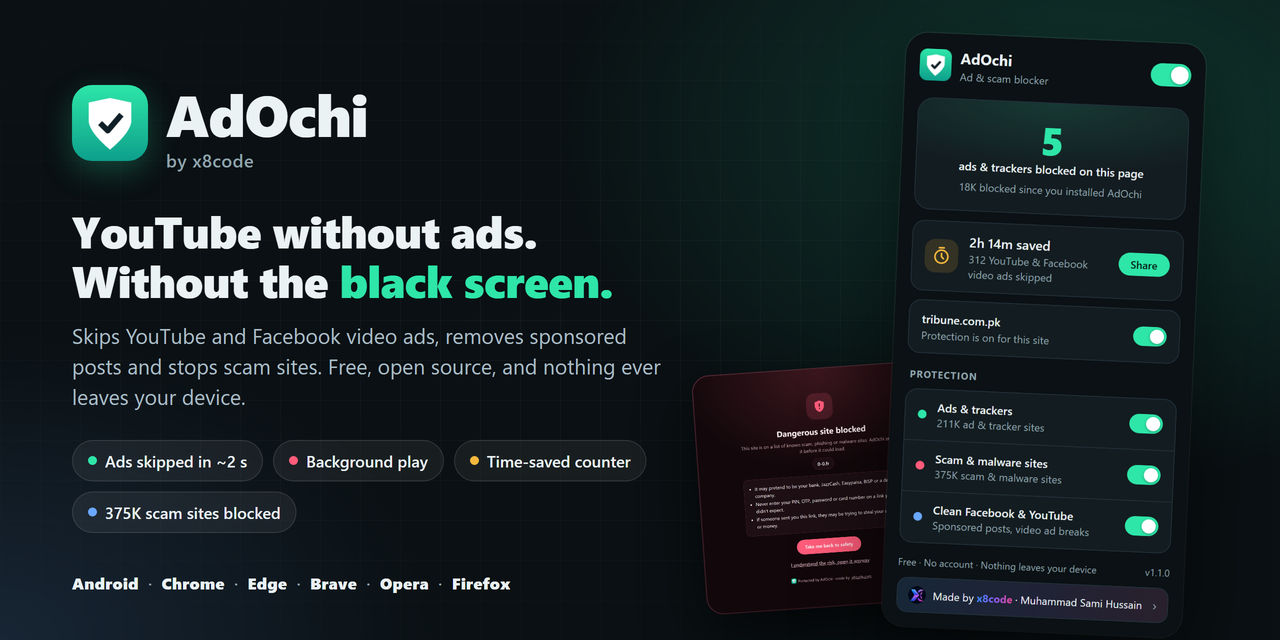
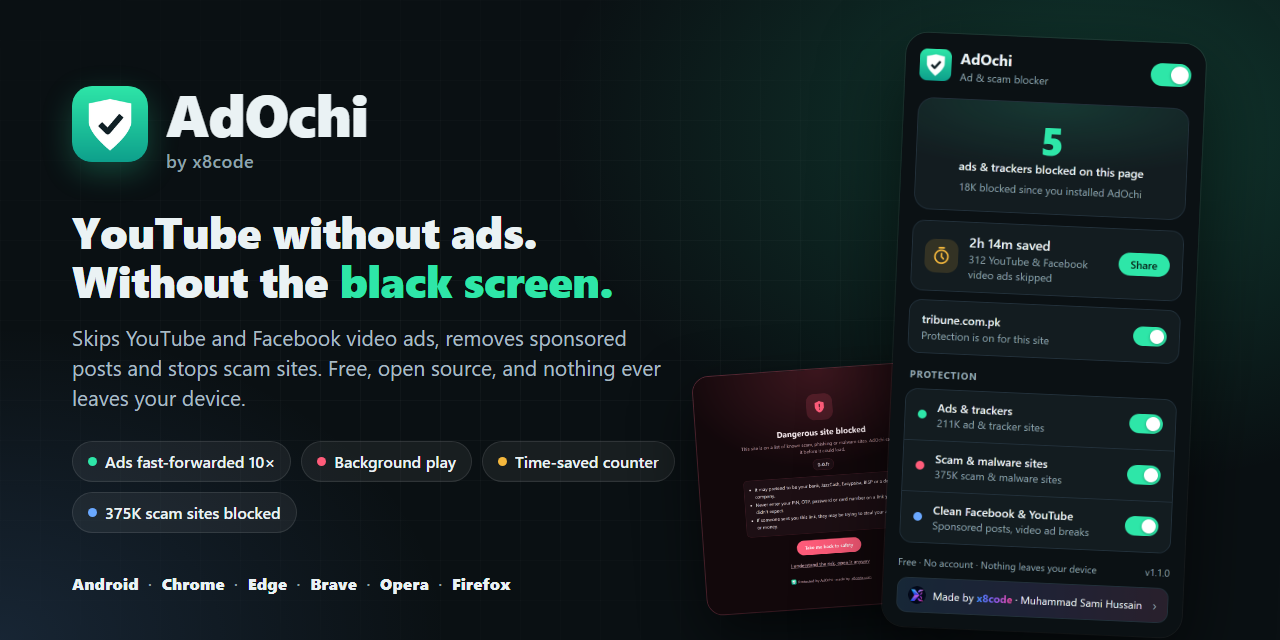
AdOchi 1.2: YouTube plays again for signed-in viewers
- On YouTube no requests are blocked (allowAllRequests in YouTube frames) and the
  generic ad CSS is not applied.
- Ads run muted, hidden and 10x fast. No seeking to the end and no scripted Skip
  clicks, which YouTube treats as ad-blocker signals.
- YouTube safe mode: if YouTube still shows "Video playback is blocked", AdOchi
  stays out of YouTube for 6 hours and reloads the video. The popup shows it,
  with a "Skip again" button.
- Version 1.2.0 (app versionCode 3); README, landing page and banner updated.

diff --git a/app/src/main/assets/cleaner.js b/app/src/main/assets/cleaner.js
@@ -411,7 +411,7 @@
       'ytd-companion-slot-renderer', 'ytd-action-companion-ad-renderer', 'ytd-mealbar-promo-renderer',
       'ytd-player-legacy-desktop-watch-ads-renderer', 'ytd-engagement-panel-section-list-renderer[target-id="engagement-panel-ads"]',
       '#player-ads', '#masthead-ad', '.ytp-ad-overlay-container', '.ytp-ad-image-overlay', '.ytp-ad-text-overlay',
-      '.ytp-featured-product', '.ytp-suggested-action', 'ytd-enforcement-message-view-model'
+      '.ytp-featured-product', '.ytp-suggested-action', 'tp-yt-paper-dialog ytd-enforcement-message-view-model'
     ]));
     // :has() in its own rule so older WebViews only drop this one.
     addStyle(hideRule([
@@ -423,14 +423,14 @@
     addStyle('.ad-showing video, .ad-interrupting video, .ad-showing .video-ads, .ad-showing .ytp-ad-player-overlay,' +
       ' .ad-showing .ytp-ad-player-overlay-layout { opacity: 0 !important; }\n');
 
-    var SKIP = '.ytp-ad-skip-button, .ytp-ad-skip-button-modern, .ytp-skip-ad-button, .ytp-ad-skip-button-container button, ' +
-      'button[id^="skip-button"], .ytp-ad-skip-button-slot button, ytm-skip-ad-button button';
+    // Ads are muted, hidden and fast-forwarded, nothing more. YouTube ignores scripted clicks on Skip,
+    // and jumping to the end of an ad or playing it at 16x is what gets an account flagged.
+    var AD_RATE = 10;
 
     var inAd = false;
     var counted = '';
     var saved = { muted: false, rate: 1 };
-    var contentDuration = 0;
-    var contentSrc = '';
+    var blockedSent = false;
 
     function playerNode() {
       return document.querySelector('#movie_player, .html5-video-player');
@@ -460,59 +460,61 @@
         if (inAd) {
           inAd = false;
           video.muted = saved.muted;
-          video.playbackRate = saved.rate;
-          if (video.paused) video.play().catch(function () {});
-        }
-        if (isFinite(video.duration) && video.duration > 0) {
-          contentDuration = video.duration;
-          contentSrc = video.currentSrc || video.src || '';
+          // Only undo our own speed, so a speed YouTube or the viewer set afterwards stays.
+          if (video.playbackRate === AD_RATE) video.playbackRate = saved.rate;
         }
         return;
       }
       if (!inAd) {
         inAd = true;
         counted = '';
-        saved = { muted: video.muted, rate: video.playbackRate > 2 ? 1 : (video.playbackRate || 1) };
+        saved = { muted: video.muted, rate: video.playbackRate === AD_RATE ? 1 : (video.playbackRate || 1) };
       }
-      video.muted = true;
-      try { video.playbackRate = 16; } catch (e) { /* rate not allowed */ }
-      var skip = player.querySelector(SKIP) || document.querySelector(SKIP);
-      if (skip) skip.click();
+      if (!video.muted) video.muted = true;
+      if (video.playbackRate !== AD_RATE) {
+        try { video.playbackRate = AD_RATE; } catch (e) { /* rate not allowed */ }
+      }
       if (!(isFinite(video.duration) && video.duration > 0)) return;
-      // An ad stitched into the video stream has the video's own length: jump only past the ad there.
-      var stitched = contentDuration > 0 && Math.abs(video.duration - contentDuration) < 1 &&
-        (video.currentSrc || video.src || '') === contentSrc;
       // Each ad of a break is counted once, with the time it would have taken.
       var id = (video.currentSrc || video.src || '') + '|' + video.duration;
       if (counted !== id) {
         counted = id;
-        report(stitched ? remainingAdTime(player) : video.duration - video.currentTime);
+        var rest = remainingAdTime(player);
+        // An ad stitched into the stream reports the whole video's length, so the ad's own timer is used.
+        report(rest > 0 ? rest : Math.min(video.duration - video.currentTime, 180));
       }
-      try {
-        if (!stitched) {
-          if (video.currentTime < video.duration - 0.25) video.currentTime = video.duration - 0.1;
-        } else {
-          var rest = remainingAdTime(player);
-          if (rest > 0) video.currentTime = Math.min(video.currentTime + rest + 0.2, video.duration - 0.5);
-        }
-      } catch (e) { /* not seekable yet */ }
-      if (video.paused) video.play().catch(function () {});
     }
 
-    /** "Ad blockers are not allowed" pop-up, if it still appears: close it and keep the video going. */
+    /** "Ad blockers are not allowed" pop-up over a playing video: close it and keep the video going. */
     function closeEnforcement() {
-      var box = document.querySelector('ytd-enforcement-message-view-model');
+      var box = document.querySelector('tp-yt-paper-dialog ytd-enforcement-message-view-model');
       if (!box) return;
-      var dialog = box.closest('tp-yt-paper-dialog') || box;
-      dialog.remove();
+      box.closest('tp-yt-paper-dialog').remove();
       document.querySelectorAll('tp-yt-iron-overlay-backdrop').forEach(function (b) { b.remove(); });
       var video = document.querySelector('#movie_player video, video');
       if (video && video.paused) video.play().catch(function () {});
       report();
     }
 
+    var BLOCKED_TEXT = /ad ?blockers? (violate|are not allowed)|allowlisted|video playback is blocked/i;
+
+    /**
+     * YouTube refused to play the video at all. Nothing on the page can undo that, so AdOchi tells the
+     * extension, which steps back from YouTube for a while and reloads the video.
+     */
+    function checkBlocked() {
+      if (blockedSent) return;
+      var err = document.querySelector('#movie_player .ytp-error, #error-screen, yt-playability-error-supported-renderers');
+      if (!err || !BLOCKED_TEXT.test(err.textContent || '')) return;
+      blockedSent = true;
+      try {
+        if (window.AdOchiBridge && typeof window.AdOchiBridge.onYouTubeBlocked === 'function') window.AdOchiBridge.onYouTubeBlocked();
+      } catch (e) { /* app without this hook */ }
+      document.dispatchEvent(new CustomEvent('adochi:ytblocked'));
+    }
+
     // React the moment the player switches into an ad, and keep checking in case an event is missed.
-    ['loadedmetadata', 'durationchange', 'playing', 'timeupdate'].forEach(function (name) {
+    ['loadedmetadata', 'durationchange', 'playing'].forEach(function (name) {
       document.addEventListener(name, function (e) { if (e.target && e.target.tagName === 'VIDEO') tick(); }, true);
     });
     var classWatch = new MutationObserver(tick);
@@ -525,6 +527,7 @@
         classWatch.observe(player, { attributes: true, attributeFilter: ['class'] });
       }
       tick();
+      checkBlocked();
       closeEnforcement();
     }, 250);
   }

diff --git a/extension/src/background.js b/extension/src/background.js
@@ -17,7 +17,13 @@ const DEFAULTS = {
   total: 0, // everything blocked since install
   savedSeconds: 0, // video ad time skipped since install
   videoAds: 0, // video ads skipped since install
+  ytSafeUntil: 0, // YouTube refused to play with AdOchi active: until then AdOchi stays out of YouTube
 };
+
+// YouTube runs its own ad-blocker checks, so there AdOchi blocks no requests and adds no styles;
+// only the page cleaner works there, and it steps back for a while if YouTube still refuses to play.
+const YOUTUBE_PAGES = ['*://*.youtube.com/*', '*://youtube.com/*', '*://*.youtube-nocookie.com/*'];
+const YT_SAFE_HOURS = 6;
 
 const ALL_TYPES = [
   'main_frame', 'sub_frame', 'stylesheet', 'script', 'image', 'font', 'object',
@@ -27,6 +33,7 @@ const SITE_PRIORITY = 100;
 const PROCEED_PRIORITY = 200;
 const SCRIPT_CLEANER = 'adochi-cleaner';
 const SCRIPT_BRIDGE = 'adochi-bridge';
+const SCRIPT_GENERIC_CSS = 'adochi-generic-css';
 
 async function settings() {
   return api.storage.local.get(DEFAULTS);
@@ -83,20 +90,29 @@ async function registerScripts(s) {
     scripts.push({
       id: SCRIPT_BRIDGE,
       js: ['content/bridge.js'],
-      css: ['content/generic.css'],
       matches,
       excludeMatches,
       runAt: 'document_start',
       allFrames: true,
       persistAcrossSessions: true,
     });
+    scripts.push({
+      id: SCRIPT_GENERIC_CSS,
+      css: ['content/generic.css'],
+      matches,
+      excludeMatches: [...excludeMatches, ...YOUTUBE_PAGES],
+      runAt: 'document_start',
+      allFrames: true,
+      persistAcrossSessions: true,
+    });
   }
   if (s.ads && s.social) {
+    const ytSafe = s.ytSafeUntil > Date.now();
     scripts.push({
       id: SCRIPT_CLEANER,
       js: ['content/cleaner.js'],
       matches,
-      excludeMatches,
+      excludeMatches: ytSafe ? [...excludeMatches, ...YOUTUBE_PAGES] : excludeMatches,
       runAt: 'document_start',
       // Must share the page's JavaScript to strip ad data before the video player reads it.
       world: 'MAIN',
@@ -142,6 +158,7 @@ async function closePage(tabId) {
 
 api.webNavigation.onCommitted.addListener(async (details) => {
   if (details.frameId !== 0) return;
+  await endYouTubeSafeModeIfDue();
   const info = await closePage(details.tabId);
   const safe = /^https?:/.test(details.url) ? details.url : info.lastSafe;
   await saveTabInfo(details.tabId, { since: Date.now(), hidden: 0, lastSafe: safe });
@@ -188,6 +205,25 @@ async function goBack(tabId) {
   else await api.tabs.remove(tabId);
 }
 
+// ---- YouTube safe mode ----------------------------------------------------------------------
+
+/** YouTube would not play with AdOchi active: stay out of YouTube for a while and reload the video. */
+async function youTubeBlocked(tabId) {
+  const s = await settings();
+  if (s.ytSafeUntil > Date.now()) return;
+  await api.storage.local.set({ ytSafeUntil: Date.now() + YT_SAFE_HOURS * 3600 * 1000 });
+  await apply();
+  if (tabId != null) await api.tabs.reload(tabId);
+}
+
+async function endYouTubeSafeModeIfDue() {
+  const { ytSafeUntil } = await settings();
+  if (ytSafeUntil && ytSafeUntil <= Date.now()) {
+    await api.storage.local.set({ ytSafeUntil: 0 });
+    await apply();
+  }
+}
+
 // ---- Popup -------------------------------------------------------------------------------------
 
 /** The site key used for pausing: the host without "www.", so it covers the whole site. */
@@ -220,6 +256,7 @@ async function popupState(tabId, url) {
     total: s.total + page,
     savedSeconds: s.savedSeconds,
     videoAds: s.videoAds,
+    ytSafeUntil: s.ytSafeUntil > Date.now() ? s.ytSafeUntil : 0,
   };
 }
 
@@ -255,6 +292,14 @@ api.runtime.onMessage.addListener((msg, sender, reply) => {
         }
         return null;
       }
+      case 'ytblocked':
+        if (tabId != null && /^https:\/\/([a-z0-9-]+\.)*youtube(-nocookie)?\.com\//.test(sender.url || '')) await youTubeBlocked(tabId);
+        return null;
+      case 'ytretry':
+        if (!fromPopup) return null;
+        await api.storage.local.set({ ytSafeUntil: 0 });
+        await apply();
+        return popupState(msg.tabId, msg.url);
       case 'state':
         if (!fromPopup) return null;
         return popupState(msg.tabId, msg.url);

diff --git a/extension/src/popup.js b/extension/src/popup.js
@@ -45,6 +45,13 @@ function renderSaved(state) {
   };
 }
 
+function renderYouTubeSafe(state) {
+  $('ytSafe').hidden = !state.ytSafeUntil;
+  if (!state.ytSafeUntil) return;
+  const until = new Date(state.ytSafeUntil).toLocaleTimeString([], { hour: 'numeric', minute: '2-digit' });
+  $('ytSafeSub').textContent = `YouTube refused to play videos while ads were being skipped, so its ads play normally until ${until}. Then AdOchi tries again by itself.`;
+}
+
 function formatCount(n) {
   if (n < 1000) return String(n);
   if (n < 1e6) return (n / 1000).toFixed(n < 1e4 ? 1 : 0).replace(/\.0$/, '') + 'K';
@@ -91,6 +98,7 @@ function render(state) {
   }
   $('total').textContent = state.total > 0 ? `${formatCount(state.total)} blocked since you installed AdOchi` : '';
   renderSaved(state);
+  renderYouTubeSafe(state);
 
   const card = $('siteCard');
   card.classList.toggle('na', !state.site);
@@ -126,6 +134,10 @@ async function main() {
     });
   }
   $('share').addEventListener('click', () => { $('shareMenu').hidden = !$('shareMenu').hidden; });
+  $('ytRetry').addEventListener('click', async () => {
+    render(await send({ type: 'ytretry' }));
+    if (tab.id != null && /youtube\.com/.test(tab.url)) api.tabs.reload(tab.id);
+  });
   $('siteOn').addEventListener('change', async (e) => {
     const state = await send({ type: 'site', site, paused: !e.target.checked });
     render(state);

diff --git a/docs/index.html b/docs/index.html
@@ -120,7 +120,7 @@
 
   <h2>What it does</h2>
   <div class="features">
-    <div><b>▶ YouTube that just plays</b><span>Ads skipped in about 2 seconds, no black screen, no "ad blockers not allowed" pop-up.</span></div>
+    <div><b>▶ YouTube that just plays</b><span>Ads muted, hidden and fast-forwarded 10×. No black screen, no "video playback is blocked".</span></div>
     <div><b>🎧 Background play</b><span>On Android, YouTube keeps playing with the screen off.</span></div>
     <div><b>⏱ Time saved</b><span>See how much ad time you got back, and share it.</span></div>
     <div><b>📰 Clean Facebook</b><span>Sponsored posts removed, "Ad starting in 5" breaks skipped.</span></div>

diff --git a/extension/src/content/bridge.js b/extension/src/content/bridge.js
@@ -19,6 +19,18 @@
     }
   }
 
+  // YouTube refused to play the video; the background decides what to do (once per page).
+  let blockedSent = false;
+  document.addEventListener('adochi:ytblocked', () => {
+    if (blockedSent || window.top !== window) return;
+    blockedSent = true;
+    try {
+      api.runtime.sendMessage({ type: 'ytblocked' });
+    } catch (e) {
+      // Extension was updated or reloaded.
+    }
+  });
+
   document.addEventListener('adochi:hidden', (e) => {
     pending++;
     // Seconds of video ad skipped (a number, so it crosses from the page's world unchanged).

diff --git a/extension/src/popup.html b/extension/src/popup.html
@@ -42,6 +42,14 @@
     <button type="button" id="shareCopy">Copy</button>
   </div>
 
+  <section class="card notice" id="ytSafe" hidden>
+    <div class="text">
+      <div class="title">YouTube safe mode</div>
+      <div class="sub" id="ytSafeSub">YouTube refused to play with ad skipping on, so its ads play normally for now.</div>
+    </div>
+    <button type="button" class="share" id="ytRetry">Skip again</button>
+  </section>
+
   <section class="card site" id="siteCard">
     <div class="text">
       <div class="title" id="site">This page</div>

diff --git a/extension/src/popup.css b/extension/src/popup.css
@@ -242,3 +242,7 @@ footer {
   color: var(--muted);
   font-size: 11px;
 }
+
+/* YouTube safe mode notice */
+.card.notice { border-color: color-mix(in srgb, #f5b83d 55%, transparent); background: color-mix(in srgb, #f5b83d 10%, var(--card, transparent)); }
+.card.notice .title { color: #c98a0b; }

diff --git a/README.md b/README.md
@@ -29,7 +29,9 @@ No account. No servers. Nothing leaves your device.
 
 In 2025–2026 YouTube started punishing ad blockers. When a blocker deletes the ads from the player's data, the video sits on a **black screen with a spinning circle** for as long as the ad would have run, or it never starts at all. That's why many blockers suddenly stopped working.
 
-AdOchi 1.1 doesn't fight YouTube that way. It lets the ad load and then makes it vanish on the spot: muted, invisible, jumped to its end, and the *Skip* button pressed for you. YouTube sees a normal ad, so the video just plays.
+For signed-in viewers YouTube went further: *"Ad blockers violate YouTube's Terms of Service. Video playback is blocked"*. It looks for blocked ad requests, hidden ad boxes, ads jumped to their end and *Skip* buttons pressed by a script.
+
+AdOchi 1.2 gives YouTube none of that. On YouTube it blocks no requests and hides no ad boxes in the player. The ad loads as normal and runs **muted, invisible and 10× fast**, so a 15-second ad is over in 1.5 s. If YouTube still refuses to play, AdOchi notices, steps back from YouTube for 6 hours and reloads the video, so **the video always plays**.
 
 **Measured in Chrome on the same videos (November 2026):**
 
@@ -37,13 +39,15 @@ AdOchi 1.1 doesn't fight YouTube that way. It lets the ad load and then makes it
 |---|---|
 | No blocker | 6 s + 66 s of ads |
 | Blockers that delete YouTube's ad data (AdOchi 1.0 too) | **8–10 s black screen** (signed-in users report it never starting) |
-| **AdOchi 1.1** | **No black screen.** Each ad gone in about 2 s, no ad → video at once |
+| **AdOchi 1.2** | **No black screen.** Ads muted, hidden and fast-forwarded 10×: a 15 s ad is over in 1.5 s. No ad → video at once |
 
 And there's more than YouTube: fake ads and scam links are one of the main ways people lose their bank logins and OTP codes. AdOchi blocks them before they load, on your phone and in your browser.
 
-## What's new in 1.1
+## What's new in 1.2
 
-- **YouTube works again.** No more black screen or "video won't play". Ads are skipped in about 2 seconds, and the *"Ad blockers are not allowed"* pop-up is removed.
+- **YouTube works again, signed in too.** No black screen and no *"Video playback is blocked"*. Ads run muted, invisible and 10× fast, and nothing YouTube checks for is blocked or hidden.
+- **YouTube safe mode.** If YouTube still refuses to play, AdOchi steps back from YouTube for 6 hours and reloads the video, so it always plays. The popup shows it, with a *Skip again* button.
+- The *"Ad blockers are not allowed"* pop-up over a playing video is still closed for you.
 - **Time saved counter.** See how much ad time AdOchi has skipped for you (*"2h 14m saved"*) and share it on WhatsApp, X or Facebook in one tap.
 - **Background play (Android).** YouTube in AdOchi keeps playing with the screen off or while you use another app, with *Pause / Next / Close* in the notification. Great for naats, bayans, podcasts and music.
 - **Home-screen shortcuts (Android).** Long-press the AdOchi icon for **YouTube (no ads)** and **Facebook (no ads)**, or drag them to your home screen.
@@ -177,7 +181,7 @@ node extension/test/e2e.mjs chrome       # loads it into headless Chrome and che
 
 The build never blocks a list of essential sites (Google, Facebook, WhatsApp, YouTube, Pakistani
 banks and wallets, government sites…), whatever a list says. It also fails if any core ad network is missing.
-On YouTube pages, YouTube's own ad requests are let through on purpose: the page cleaner skips the ads, and blocking those requests is what triggers the black screen.
+On YouTube pages nothing is blocked and no ad boxes are hidden, on purpose: YouTube checks for both and then refuses to play. The page cleaner fast-forwards the ads instead.
 
 ## Project layout
 
